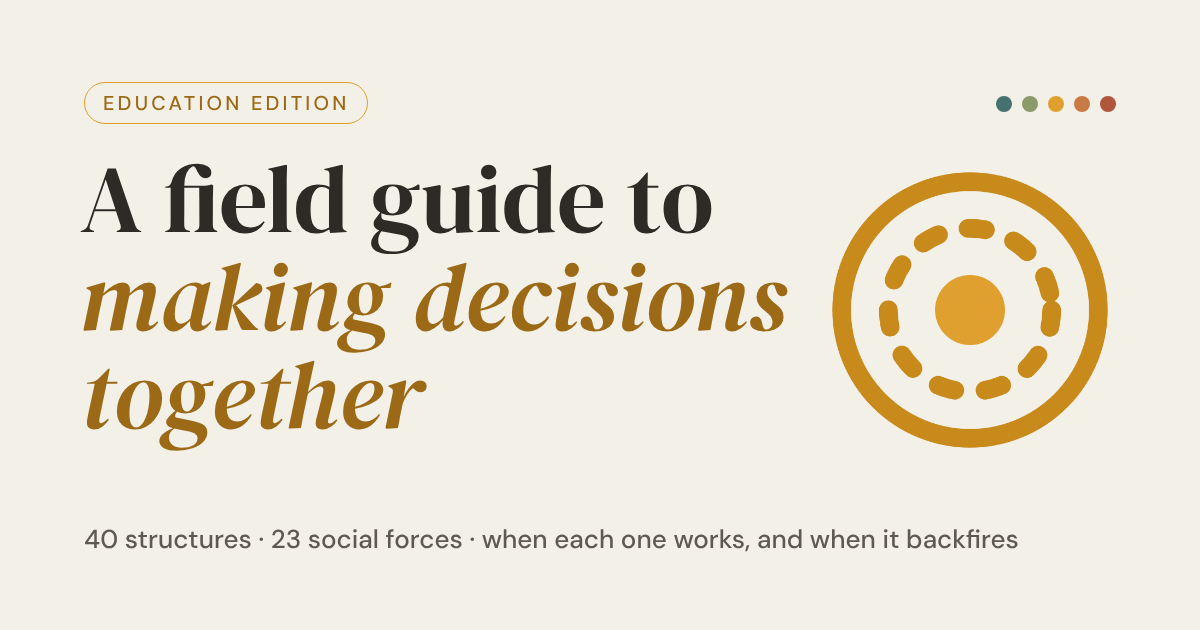
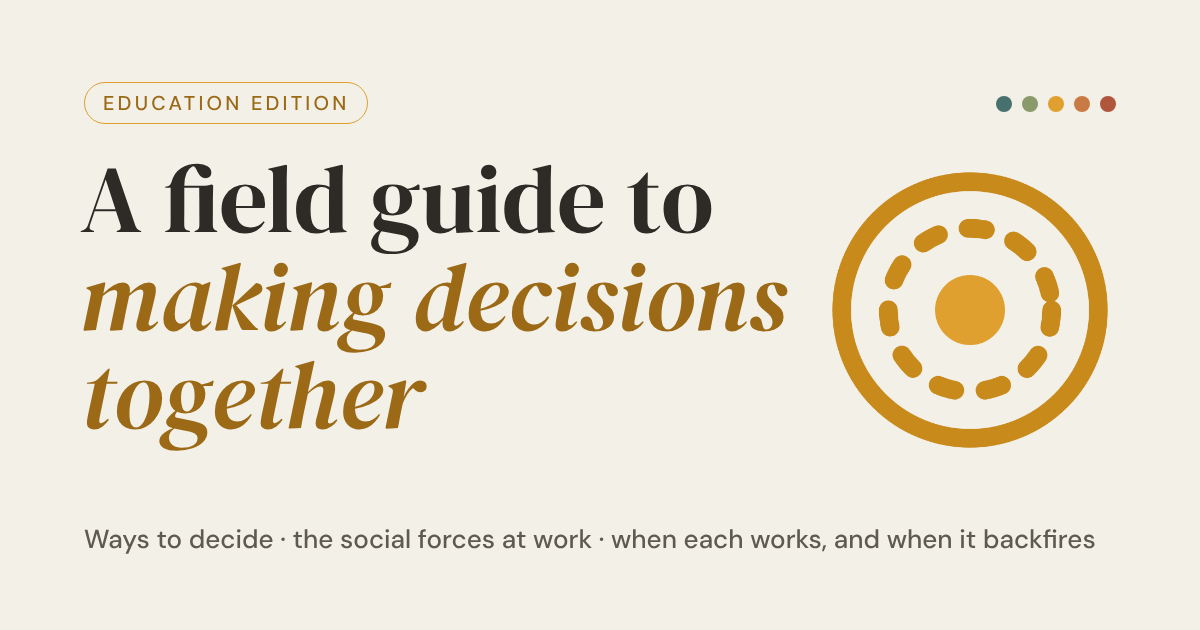
Descriptions without counts
Claude-Session: https://claude.ai/code/session_01JBrDstzLLE1iJcqHZbTuPL

Changed region(s): [[0.0617, 0.8444, 0.925, 0.8746]]

diff --git a/index.html b/index.html
@@ -4,12 +4,12 @@
 <meta charset="utf-8">
 <meta name="viewport" content="width=device-width, initial-scale=1">
 <title>Making Decisions Together: A Field Guide</title>
-<meta name="description" content="A field guide to 40 ways groups make decisions, from one person deciding to consent rounds and lotteries, with school examples of when each works and when it backfires.">
+<meta name="description" content="A field guide to the ways groups make decisions, from one person deciding to consent rounds and lotteries, with school examples of when each works and when it backfires.">
 <link rel="canonical" href="https://welearnwegrow.github.io/deciding-together/">
 <meta property="og:type" content="website">
 <meta property="og:site_name" content="Making Decisions Together: A Field Guide">
 <meta property="og:title" content="Making Decisions Together: A Field Guide">
-<meta property="og:description" content="A field guide to 40 ways groups make decisions, from one person deciding to consent rounds and lotteries, with school examples of when each works and when it backfires.">
+<meta property="og:description" content="A field guide to the ways groups make decisions, from one person deciding to consent rounds and lotteries, with school examples of when each works and when it backfires.">
 <meta property="og:url" content="https://welearnwegrow.github.io/deciding-together/">
 <meta property="og:image" content="https://welearnwegrow.github.io/deciding-together/og-image.png">
 <meta property="og:image:width" content="1200">
@@ -17,14 +17,14 @@
 <meta property="og:image:alt" content="A field guide to making decisions together">
 <meta name="twitter:card" content="summary_large_image">
 <meta name="twitter:title" content="Making Decisions Together: A Field Guide">
-<meta name="twitter:description" content="A field guide to 40 ways groups make decisions, from one person deciding to consent rounds and lotteries, with school examples of when each works and when it backfires.">
+<meta name="twitter:description" content="A field guide to the ways groups make decisions, from one person deciding to consent rounds and lotteries, with school examples of when each works and when it backfires.">
 <meta name="twitter:image" content="https://welearnwegrow.github.io/deciding-together/og-image.png">
 <meta name="theme-color" content="#46716f">
 <link rel="manifest" href="site.webmanifest">
 <link rel="icon" type="image/png" sizes="32x32" href="img/favicon-32.png">
 <link rel="apple-touch-icon" sizes="180x180" href="img/favicon-180.png">
-<script type="application/ld+json">{"@context": "https://schema.org", "@type": "WebSite", "name": "Making Decisions Together: A Field Guide", "alternateName": ["A field guide to making decisions together", "Deciding together"], "url": "https://welearnwegrow.github.io/deciding-together/", "description": "A field guide to 40 ways groups make decisions, from one person deciding to consent rounds and lotteries, with school examples of when each works and when it backfires.", "inLanguage": "en", "publisher": {"@type": "Organization", "name": "We Learn We Grow", "url": "https://welearnwegrow.bio/"}}</script>
-<script type="application/ld+json">{"@context": "https://schema.org", "@type": "LearningResource", "name": "Making Decisions Together: A Field Guide (Education edition)", "url": "https://welearnwegrow.github.io/deciding-together/", "description": "A field guide to 40 ways groups make decisions, from one person deciding to consent rounds and lotteries, with school examples of when each works and when it backfires.", "inLanguage": "en", "educationalLevel": "Professional development", "audience": {"@type": "EducationalAudience", "educationalRole": ["teacher", "administrator", "parent", "student"]}, "license": "https://creativecommons.org/licenses/by-nc-nd/4.0/", "isAccessibleForFree": true, "publisher": {"@type": "Organization", "name": "We Learn We Grow", "url": "https://welearnwegrow.bio/"}}</script>
+<script type="application/ld+json">{"@context": "https://schema.org", "@type": "WebSite", "name": "Making Decisions Together: A Field Guide", "alternateName": ["A field guide to making decisions together", "Deciding together"], "url": "https://welearnwegrow.github.io/deciding-together/", "description": "A field guide to the ways groups make decisions, from one person deciding to consent rounds and lotteries, with school examples of when each works and when it backfires.", "inLanguage": "en", "publisher": {"@type": "Organization", "name": "We Learn We Grow", "url": "https://welearnwegrow.bio/"}}</script>
+<script type="application/ld+json">{"@context": "https://schema.org", "@type": "LearningResource", "name": "Making Decisions Together: A Field Guide (Education edition)", "url": "https://welearnwegrow.github.io/deciding-together/", "description": "A field guide to the ways groups make decisions, from one person deciding to consent rounds and lotteries, with school examples of when each works and when it backfires.", "inLanguage": "en", "educationalLevel": "Professional development", "audience": {"@type": "EducationalAudience", "educationalRole": ["teacher", "administrator", "parent", "student"]}, "license": "https://creativecommons.org/licenses/by-nc-nd/4.0/", "isAccessibleForFree": true, "publisher": {"@type": "Organization", "name": "We Learn We Grow", "url": "https://welearnwegrow.bio/"}}</script>
 
 <link rel="preconnect" href="https://fonts.googleapis.com">
 <link rel="preconnect" href="https://fonts.gstatic.com" crossorigin>

diff --git a/forces.html b/forces.html
@@ -4,12 +4,12 @@
 <meta charset="utf-8">
 <meta name="viewport" content="width=device-width, initial-scale=1, viewport-fit=cover">
 <title>Social Forces · Making Decisions Together: A Field Guide</title>
-<meta name="description" content="Twenty-three social forces that shape how groups reach agreement, from conformity to local knowledge, explained with school examples and iceberg models.">
+<meta name="description" content="The social forces that shape how groups reach agreement, from conformity to local knowledge, explained with school examples and iceberg models.">
 <link rel="canonical" href="https://welearnwegrow.github.io/deciding-together/forces.html">
 <meta property="og:type" content="website">
 <meta property="og:site_name" content="Making Decisions Together: A Field Guide">
 <meta property="og:title" content="Social Forces · Making Decisions Together: A Field Guide">
-<meta property="og:description" content="Twenty-three social forces that shape how groups reach agreement, from conformity to local knowledge, explained with school examples and iceberg models.">
+<meta property="og:description" content="The social forces that shape how groups reach agreement, from conformity to local knowledge, explained with school examples and iceberg models.">
 <meta property="og:url" content="https://welearnwegrow.github.io/deciding-together/forces.html">
 <meta property="og:image" content="https://welearnwegrow.github.io/deciding-together/og-image.png">
 <meta property="og:image:width" content="1200">
@@ -17,7 +17,7 @@
 <meta property="og:image:alt" content="A field guide to making decisions together">
 <meta name="twitter:card" content="summary_large_image">
 <meta name="twitter:title" content="Social Forces · Making Decisions Together: A Field Guide">
-<meta name="twitter:description" content="Twenty-three social forces that shape how groups reach agreement, from conformity to local knowledge, explained with school examples and iceberg models.">
+<meta name="twitter:description" content="The social forces that shape how groups reach agreement, from conformity to local knowledge, explained with school examples and iceberg models.">
 <meta name="twitter:image" content="https://welearnwegrow.github.io/deciding-together/og-image.png">
 <meta name="theme-color" content="#46716f">
 <link rel="manifest" href="site.webmanifest">
